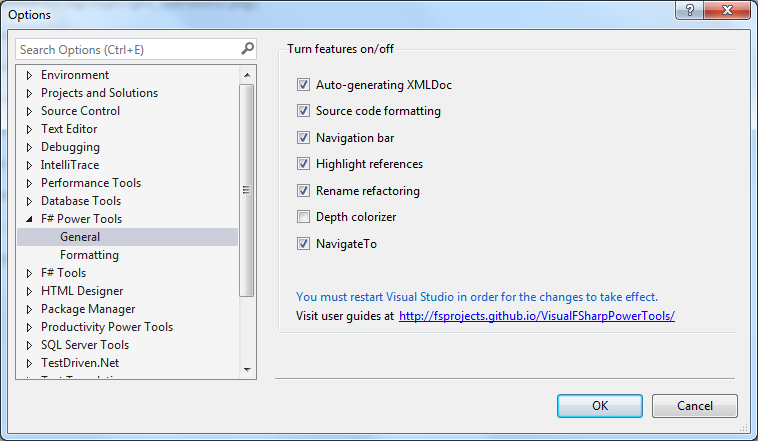
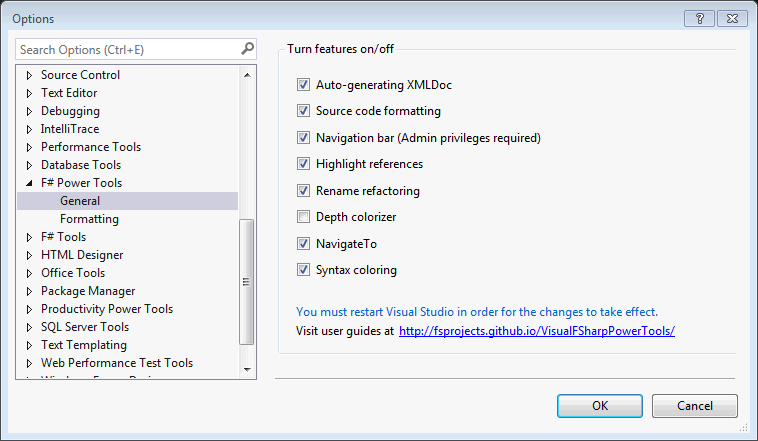
[skip ci] Update generated documentation for version 0.5.0

diff --git a/highlightusage.html b/highlightusage.html
@@ -34,27 +34,27 @@
           
 <h2>Highlight references</h2>
 
-<p>The color of the highlighted marker could be customized in  "Tools --> Options --> Environment --> Fonts and Colors --> Display items --> Highlighted References".</p>
+<p>The color of the highlighted marker could be customized in "Tools --> Options --> Environment --> Fonts and Colors --> Display items --> Highlighted References".</p>
 
 <p>Here is a demo screencast.</p>
 
 <p><img src="img/highlight_references.gif" alt="Highlight references" /></p>
 
-<p>We support operator highlighting</p>
+<p>We support Operator highlighting</p>
 
 <p><img src="img/highlight_operators.png" alt="Highlight operators" /></p>
 
 <p>Generic type parameters</p>
 
-<p><img src="img/highlight_generic_parameters.png" alt="Highlight operators" /></p>
+<p><img src="img/highlight_generic_parameters.png" alt="Highlight generic parameters" /></p>
 
 <p>Statically resolved type parameters</p>
 
-<p><img src="img/highlight_statically_resolved_type_parameters.png" alt="Highlight operators" /></p>
+<p><img src="img/highlight_statically_resolved_type_parameters.png" alt="Highlight statically resolved type parameters" /></p>
 
 <p>Active patterns</p>
 
-<p><img src="img/highlight_active_patterns.png" alt="Highlight operators" /></p>
+<p><img src="img/highlight_active_patterns.png" alt="Highlight active patterns" /></p>
 
 
         </div>
@@ -78,7 +78,8 @@
             <li><a href="./highlightusage.html">Highlight references</a></li>
             <li><a href="./rename.html">Rename refactoring</a></li>
             <li><a href="./depthcolorizer.html">Depth colorizer</a></li>
-              <li><a href="./navigateto.html">NavigateTo</a></li>
+            <li><a href="./navigateto.html">NavigateTo</a></li>
+            <li><a href="./syntaxcoloring.html">Syntax coloring</a></li>
             <!--
             <li class="nav-header">Documentation</li>
             <li><a href="./reference/index.html">API Reference</a></li>

diff --git a/syntaxcoloring.html b/syntaxcoloring.html
@@ -2,7 +2,7 @@
 <html lang="en">
   <head>
     <meta charset="utf-8">
-    <title>navigateto</title>
+    <title>syntaxcoloring</title>
     <meta name="viewport" content="width=device-width, initial-scale=1.0">
     <meta name="description" content="Visual F# Power Tools (by F# Community) ">
     <meta name="author" content="Anh-Dung Phan, Vasily Kirichenko">
@@ -32,14 +32,39 @@
       <div class="row">
         <div class="span9" id="main">
           
-<h2>NavigateTo (Ctrl + ,) command</h2>
+<h2>Syntax coloring</h2>
 
-<p>This feature can also be activated through Edit --> NavigateTo menu. 
-It performs quick search to navigate between different locations in the source files.</p>
+<p>We currently support coloring:</p>
 
-<p>Here is a screencast in VS2013 where symbols are returned from both C# and F# projects.</p>
+<ul>
+<li>types</li>
+<li>functions / methods</li>
+<li>value types</li>
+<li>patterns (off by default)</li>
+<li>mutable variables / reference cells (off by default)</li>
+</ul>
 
-<p><img src="img/navigate_to.gif" alt="NavigateTo" /></p>
+<p>Here is how the editor looks like in blue &amp; dark theme:</p>
+
+<p><img src="img/syntax_coloring_demo_blue.png" alt="Syntax coloring" /></p>
+
+<p><img src="img/syntax_coloring_demo_dark.png" alt="Syntax coloring" /></p>
+
+<h2>How to customize colors</h2>
+
+<p>Colors of syntax constructs can be customized in "Tools --> Options --> Environment --> Fonts and Colors --> Display items" via:</p>
+
+<ul>
+<li>F# Types</li>
+<li>F# Functions / Methods</li>
+<li>F# Value Types</li>
+<li>F# Patterns</li>
+<li>F# Mutable Variables / Reference Cells</li>
+</ul>
+
+<p>You can press Ctrl + F in 'Display items' to quickly navigate to these colors.</p>
+
+<p><img src="img/syntax_coloring_options.png" alt="Syntax coloring" /></p>
 
 
         </div>

diff --git a/codeformatting.html b/codeformatting.html
@@ -37,11 +37,11 @@
 <p>Two main formatting commands are available:</p>
 
 <ul>
-<li><em>Formatting Document</em>, available under <strong>Ctrl + K D</strong> key combination.</li>
-<li><em>Formatting Selection / Formatting Cursor Position</em>, available under <strong>Ctrl + K F</strong> key combination.</li>
+<li><em>Formatting Document</em>, available under <strong>Ctrl + K, Ctrl + D</strong> key combination.</li>
+<li><em>Formatting Selection / Formatting Cursor Position</em>, available under <strong>Ctrl + K, Ctrl + F</strong> key combination.</li>
 </ul>
 
-<p>Using <strong>Ctrl + K F</strong> combination without a selection, 
+<p>Using <strong>Ctrl + K, Ctrl + F</strong> combination without a selection, 
 the smallest parseable block (inside <code>[</code> and <code>]</code>, <code>[|</code> and <code>|]</code>, <code>{</code> and <code>}</code> or <code>(</code> and <code>)</code>) will be formatted.</p>
 
 <p>To illustrate, the following example</p>
@@ -118,7 +118,8 @@ could be adjusted under "Tools --> Options --> Text Editor --> F# --> Tabs" (loo
             <li><a href="./highlightusage.html">Highlight references</a></li>
             <li><a href="./rename.html">Rename refactoring</a></li>
             <li><a href="./depthcolorizer.html">Depth colorizer</a></li>
-              <li><a href="./navigateto.html">NavigateTo</a></li>
+            <li><a href="./navigateto.html">NavigateTo</a></li>
+            <li><a href="./syntaxcoloring.html">Syntax coloring</a></li>
             <!--
             <li class="nav-header">Documentation</li>
             <li><a href="./reference/index.html">API Reference</a></li>

diff --git a/rename.html b/rename.html
@@ -35,7 +35,7 @@
 <h2>Rename refactoring</h2>
 
 <p>We currently support rename identifiers and operators which are defined in current project.
-Rename dialog can be activated via Edit --> Refactor --> Rename menu, context menu or Ctrl + R R key binding.</p>
+Rename dialog can be activated via Edit --> Refactor --> Rename menu, context menu or Ctrl + R, Ctrl + R key binding.</p>
 
 <p>Here is a demo screencast.</p>
 
@@ -63,7 +63,8 @@ Rename dialog can be activated via Edit --> Refactor --> Rename menu, context me
             <li><a href="./highlightusage.html">Highlight references</a></li>
             <li><a href="./rename.html">Rename refactoring</a></li>
             <li><a href="./depthcolorizer.html">Depth colorizer</a></li>
-              <li><a href="./navigateto.html">NavigateTo</a></li>
+            <li><a href="./navigateto.html">NavigateTo</a></li>
+            <li><a href="./syntaxcoloring.html">Syntax coloring</a></li>
             <!--
             <li class="nav-header">Documentation</li>
             <li><a href="./reference/index.html">API Reference</a></li>

diff --git a/index.html b/index.html
@@ -51,6 +51,7 @@ The extension is also available in the <a href="http://visualstudiogallery.msdn.
 <li><a href="rename.html">Rename refactoring</a></li>
 <li><a href="depthcolorizer.html">Depth colorizer</a></li>
 <li><a href="navigateto.html">NavigateTo</a></li>
+<li><a href="syntaxcoloring.html">Syntax coloring</a></li>
 </ul>
 
 <h2>Contributing and copyright</h2>
@@ -85,7 +86,8 @@ redistribution for both commercial and non-commercial purposes. For more informa
             <li><a href="./highlightusage.html">Highlight references</a></li>
             <li><a href="./rename.html">Rename refactoring</a></li>
             <li><a href="./depthcolorizer.html">Depth colorizer</a></li>
-              <li><a href="./navigateto.html">NavigateTo</a></li>
+            <li><a href="./navigateto.html">NavigateTo</a></li>
+            <li><a href="./syntaxcoloring.html">Syntax coloring</a></li>
             <!--
             <li class="nav-header">Documentation</li>
             <li><a href="./reference/index.html">API Reference</a></li>

diff --git a/depthcolorizer.html b/depthcolorizer.html
@@ -72,7 +72,8 @@ and two other schemes for dark theme: <a href="img/FSDCDarkDefault.reg">Default<
             <li><a href="./highlightusage.html">Highlight references</a></li>
             <li><a href="./rename.html">Rename refactoring</a></li>
             <li><a href="./depthcolorizer.html">Depth colorizer</a></li>
-              <li><a href="./navigateto.html">NavigateTo</a></li>
+            <li><a href="./navigateto.html">NavigateTo</a></li>
+            <li><a href="./syntaxcoloring.html">Syntax coloring</a></li>
             <!--
             <li class="nav-header">Documentation</li>
             <li><a href="./reference/index.html">API Reference</a></li>

diff --git a/navbar.html b/navbar.html
@@ -67,7 +67,8 @@ The setting for this specific feature might be lost after updating/reinstalling 
             <li><a href="./highlightusage.html">Highlight references</a></li>
             <li><a href="./rename.html">Rename refactoring</a></li>
             <li><a href="./depthcolorizer.html">Depth colorizer</a></li>
-              <li><a href="./navigateto.html">NavigateTo</a></li>
+            <li><a href="./navigateto.html">NavigateTo</a></li>
+            <li><a href="./syntaxcoloring.html">Syntax coloring</a></li>
             <!--
             <li class="nav-header">Documentation</li>
             <li><a href="./reference/index.html">API Reference</a></li>

diff --git a/xmldoc.html b/xmldoc.html
@@ -94,7 +94,8 @@ and you get a blank XMLDoc template (if there wasn't already a non-empty XMLDoc 
             <li><a href="./highlightusage.html">Highlight references</a></li>
             <li><a href="./rename.html">Rename refactoring</a></li>
             <li><a href="./depthcolorizer.html">Depth colorizer</a></li>
-              <li><a href="./navigateto.html">NavigateTo</a></li>
+            <li><a href="./navigateto.html">NavigateTo</a></li>
+            <li><a href="./syntaxcoloring.html">Syntax coloring</a></li>
             <!--
             <li class="nav-header">Documentation</li>
             <li><a href="./reference/index.html">API Reference</a></li>
